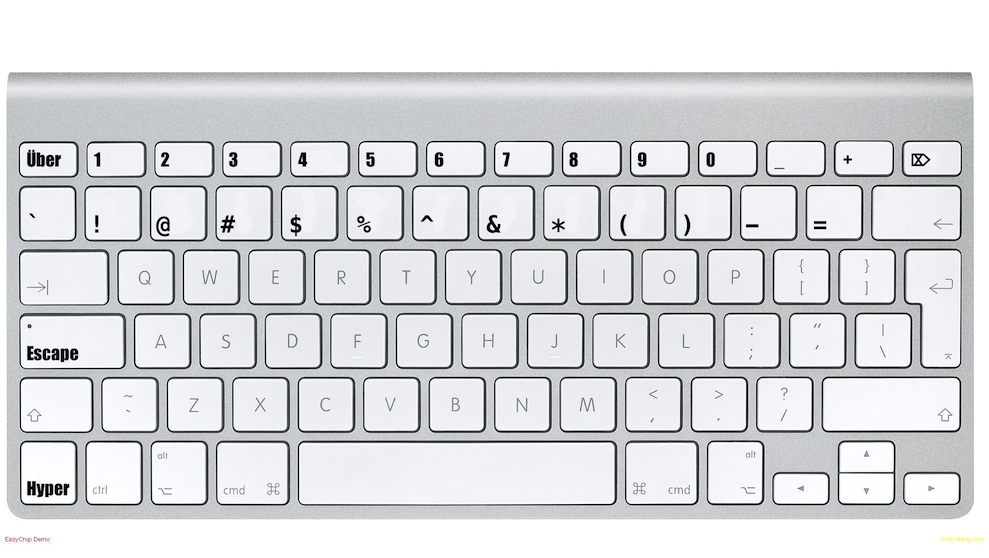
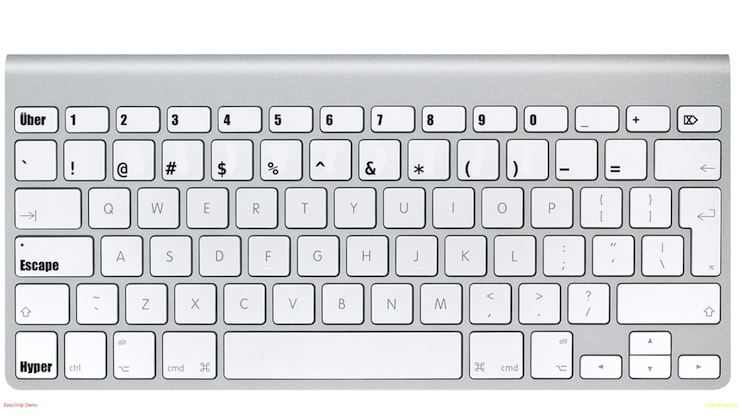
* finished article on language therapy

diff --git a/app/posts/2015-01-28-language-therapy-for-asd-and-tbi.md b/app/posts/2015-01-28-language-therapy-for-asd-and-tbi.md
@@ -1,0 +1,103 @@
+---
+title: "Language Therapy for Autism and Traumatic Brain Injury"
+author:
+  name: "David Conner"
+  tags: "autism asd neuroscience machinelearning psychology hypothesis"
+---
+
+There are many disorders caused by a disruption of networks in the brain.  In some cases, I believe learning to speak and communication with new languages can help "renormalize" these networks, taking advantage of neuroplasticity to circumvent these disruptions.  In Autism Spectrum Disorder(ASD), these networks of neurons develop differently during early childhood, resulting in a myriad of effects on behavior, perception and communication.  In Traumatic Brain Injury(TBI), an injury either prevents the components of these networks from functioning properly or stifles communication between these networked components.  Unfortunately, while this idea for treatment may be effective for some, it will not be possible in some cases.
+
+> Please note that I'm writing this article without formal training in psychology or medicene. Therefore, the information isn't complete and should be regarded as a general hypothesis only.  One of the problems of lacking formal education is familiarity of concepts without knowledge of the common language used.   Therefore, I may make some mistakes such as using the term disorder in the wrong context. 
+
+![Sweet Picture from the ArsTechnica Article!](/img/posts/2015-01-28-language-therapy-for-asd-and-tbi/the-brain.jpg)
+
+### I really, really like Coursera!
+
+I've spent a lot of time researching how the brain works.  I've taken Henry Lester's [Drugs in the Brain](https://www.coursera.org/course/drugsandbrain), offered by CalTech on Coursera.  It was an amazing course on neuropharmacology and neurology.  The class introduced me to a wide variety of topics.  I've also taken Andrew Ng's [Machine Learning](https://www.coursera.org/course/ml) course on Coursera, an amazing introduction to the topic.  In the past few years, I've spent a lot of time amalgamating ideas from machine learning, neurology and psychology.  Recently, I took the [Neuromarketing](https://www.coursera.org/course/neuromarketing) class offered by the Copenhagen Business School on Coursra.
+
+I recently read this great [ArsTechnica article on ASD](http://arstechnica.com/science/2015/01/the-connections-in-autistic-brains-are-idiosyncratic-and-individualized/), which postulates that some neurological disorders are caused by changes in how neurons and their networks are connected in our brain.  Some regions have higher interconnectivity than "normal."  Some areas which are normally strongly connected are instead more disparate.  In autism, this can have significant impact on how people think, perceive social interactions and communicate.  
+
+ > "There is even data suggesting that some neurological disorders are in fact 'connectopathies,'
+ > characterized by either aberrant connections or an unusual extent of connections among neurons." - ArsTechnica
+
+[John Elder Robinson](http://www.johnrobison.com/), author of [Look Me in the Eye](http://www.amazon.com/Look-Me-Eye-Life-Aspergers/dp/0307396185), calls the normal people **neurotypicals** or "nypicals" for short.  There can be significant disadvantage to some of the symptoms and patterns in autism, but there are also great strengths to seeing the world in a different way.  Because of this, I'm hesitant to embrace treatments that seek to artificially "normalize" the autistic brain, especially via medication.  I'm not a doctor and while medication may be helpful in some areas, it doesn't do anything to address the underlying causes of autism.  
+
+![Look Me in the Eye](/img/posts/2015-01-28-language-therapy-for-asd-and-tbi/look-me-in-the-eye.jpg)
+
+Another treatment I've read about is Transcranial Magnetic Stimulation, which may be promising.  It's a treatment that may affect the altered neural connections in the brain, but it's really hard to say how it's doing that.  Everything that heals may also harm.  Can we really control the level and focus of stimulation to produce the desired results?  Do we even understand how the TMS mechanism would produce those effects?  Can me measure the physical and behavioral effects?  And if, after enough research, we can answer yes to those three questions, are we also losing the gifts that an autistic brain can offer?
+
+IMO, Cognitive Behavioral Therapy is far more effective than either of these.  This "Language Therapy" I'm proposing is really a CBT technique.  It's a skill that people can develop that may help "normalize" the networks in the autistic brain.  It may also work in some cases of TBI and while I believe there is less likelihood of effective treatment in TBI, a case of effective treatment may have more beneficial effect than in ASD. 
+
+There's been a ton of study into how learning languages effects the brain, so this Language Therapy probably isn't a new idea.  But, if it works, it would be a more natural treatment.  Language therapy works by forcing the brain to make stronger connections between ideas and concepts.  Language involves nearly all parts of the brain.  These disparate modules in the brain are more engaged when people are having natural, spoken conversations.  If the language is not spoken or the context is not a natural conversation, it may still be helpful, but it cannot holistically engage the brain.
+
+> **Sidenote:** all the people complaining about an America where you have to learn two languages are ignorant.  Learning multiple languages will make us far smarter, understanding and compassionate.  We should embrace the opportunity to do this.  The earlier, the better.
+
+### Unlearning is Hard
+
+I've noticed that when learning to do something in a new way, I sometimes need to prevent myself from doing it in the old way in order to make the leap.  This is particularly true when the "old way" is a deeply engrained habit and is very similar to the "new way" I am trying things.  If I don't disable the old method completely, I never make the jump because my mind subconsciously reaches for the tools and connections that it has already strengthened.  Many people have noticed this phenomenon and teachers are encouraged to avoid teaching you something incorrect so that you do not have to unlearn.  
+
+When I was experimenting with learning new keyboard layouts, I had the idea to turn my media keys (play, pause, etc) into the symbols *!*, *@*, *#*, etc.  However, I could still press shift-1 to type *!* and this meant that I didn't really utilize the new keyboard layout.  So, to break the habit, I instead wired the media keys to digits *1*, *2*, *3*, etc. and the old digit keys to the symbols *!*, *@*, *#*, etc.  Immediately, I started using the new technique.
+
+![Look Me in the Eye](/img/posts/2015-01-28-language-therapy-for-asd-and-tbi/keyboard-digits-symbols.jpeg)
+
+### Forcing New Connections in the Brain
+
+My point is that, in cases where networks in the brain are disrupted, learning a new language may help force new connections to form.  In cases of TBI, there may be networks of neurons that are still functioning, they just aren't connected the the networks of neurons upstream.  However, because you are learning something completely new, then you will be forming new connections.  Because certain areas of the brain may be disconnected, your brain may respond by linking networks which are not normally connected.  
+
+As your brain continues to strengthen these alternate pathways, because language involves so many neural modules, your brain should also begin to connect these modules in new ways.  This is because you're forcing your brain to learn something new: a new language.  And it has to make these connections, somehow.  It may be very difficult at first, but your brain should start to normalize, though it's impossible to say how much progress someone will make.
+
+### Sign Language and Neuroplasticity
+
+This doesn't just apply to spoken language.  Particularly, if learning a new spoken language fails, sign language should be attempted.  Sign language may be particularly useful in cases where [aphasia](http://en.wikipedia.org/wiki/Aphasia) and other similar neurological patterns are present. In fact, sign language in itself forges new connections between the areas of the brain that perform motor coordination and symbolically interpret gestures.  Therefore, it may be more useful than learning a new language for utilizing neuroplasticity.
+
+### Mental Functionality is Modular and Everything is Connected
+
+In the brain, everything is connected and functionality is modular.  These modules can form new connections.  This can supplant or augment existing neural pathways.  For example, practicing martial arts blindfolded forces you to strengthen the connections between senses not normally used.  You have to focus more on what you hear and rely on the memory of your opponents position, stance and behavior.  Therefore, when you remove the blindfold after significant training, these pathways have been strengthened and your mind is now more capable of utilizing all the information available.
+
+![Blind Monk from Marco Polo](/img/posts/2015-01-28-language-therapy-for-asd-and-tbi/blind-monk.jpg)
+
+#### The blind monk from the non-historical Netflix Original [Marco Polo](http://www.imdb.com/title/tt2189461/)
+
+Therefore, people who force themselves to learn more methods of doing things have more tightly integrated the modules in their brain.  Language is particularly useful in this context, as it involves nearly all of the brain.  You have to interpret sounds/gestures, perceive facial expressions, attune yourself to others' emotions and experiences, and quickly assemble responses to their input.
+
+When learning a new language, there are new idioms to learn, new grammar and new forms of written expression that are completely different.  For example, English and Romance languages are Subject-Verb-Object(SVO), whereas Japanese is Subject-Object-Verb(SOV).  This significantly affects both the planning process for speech and interpretation.  Japanese and Chinese share the Kanji writing system, though it has somewhat diverged.  Learning to recognize thousands of symbols is very difficult, but also enables you to visualize symbols more effectively.
+
+In the languages in our world, each of these differences is a chance for your brain to make more connections that didn't exist before.  No matter their age, assuming it is possible for someone to learn a new language, making these new connections can totally rewire the brain.  This is like hacking neuroplasticity! 
+
+### Recommended Languages to Learn
+
+I personally recommend **Japanese, Spanish, Sign Langauge and Hindi.** 
+
+Japanese is great because there's tons of free anime and media online to learn from.  However, there isn't a huge community of speakers in the US, so it can be hard to connect with others for IRL conversations.  
+
+Additionally, while the writing system is great to learn, this makes it very difficult.  The basic phonetic Hiragana and Katakana writing systems aren't too bad and have ~100 symbols combined.  But, if you can't read Kanji, then you're basically illiterate to Japanese media.  
+
+![Hiragana Katakana](/img/posts/2015-01-28-language-therapy-for-asd-and-tbi/hiragana.gif)
+
+There are lots of tools to facilitate learning Kanji, but most people would just give up.  The best way to do it is to find a realllly good book, then copy and translate one symbol at a time until most of the symbols you reach are duplicates.  This is still incredibly difficult and time consuming.  
+
+Spanish is great because there's a huge community of speakers in the US.  That means you're more likely to connect with other people and have real conversations that you couldn't before.  Sign language is great because, while it's a language, learning it affects your mind differently, neurologically.  
+
+Hindi is also great because there's a separate writing system and it's less complicated than Kanji.  The Hindi language and writing system are also phonetically unique and captures many more sounds than the Roman alphabet.  In fact, the Sanskrit alphabet employed by Hindi is something of a metalanguage and has unique applications in computer science.
+
+![Om Mani Padme Hum](/img/posts/2015-01-28-language-therapy-for-asd-and-tbi/om-mani-padme-hum.gif)
+
+### Getting Started
+
+If you're planning on using this technique as a treatment, I would consult your doctor or therapist first, as they will have many suggestions.  
+
+If you have an autistic child, it may be difficult to get them to want to learn a new language.  You'll want to approach the situation tactfully and you may not want to let them know exactly why you'd like them to learn.  Additionally, you'll need to learn the language yourself.  After all, it's no fun if you're the only one that knows Japanese.  You may try getting their friends or siblings to learn as well.
+
+If you or someone you know has suffered from a traumatic brain injury, it might be depressing if they can't learn it.  It's important to approach the situation carefully, but I really think it could produce dramatic results in some cases.  It may be extremely difficult at first, but seeing any benefits at first should mean that more benefits are in the works.
+
+### If you don't learn it young, there's no point?!
+
+Seriously? GTFO! LOL ... Someone casually mentioned this to a friend behind me at the coffee shop once, while I was practicing Kanji.  So I could overhear .. I guess?
+
+Self-improvement is always beneficial and philosophically, this attitude goes nowhere fast.
+
+### [DuoLingo](https://duolingo.com) - FREE
+
+The best language app I know of.  Rosetta Stone may be a bit better, but it's much more expensive.  Besides, Asthon Kutcher is a DuoLingo investor!  Didn't you watch That 70's Show?
+
+
